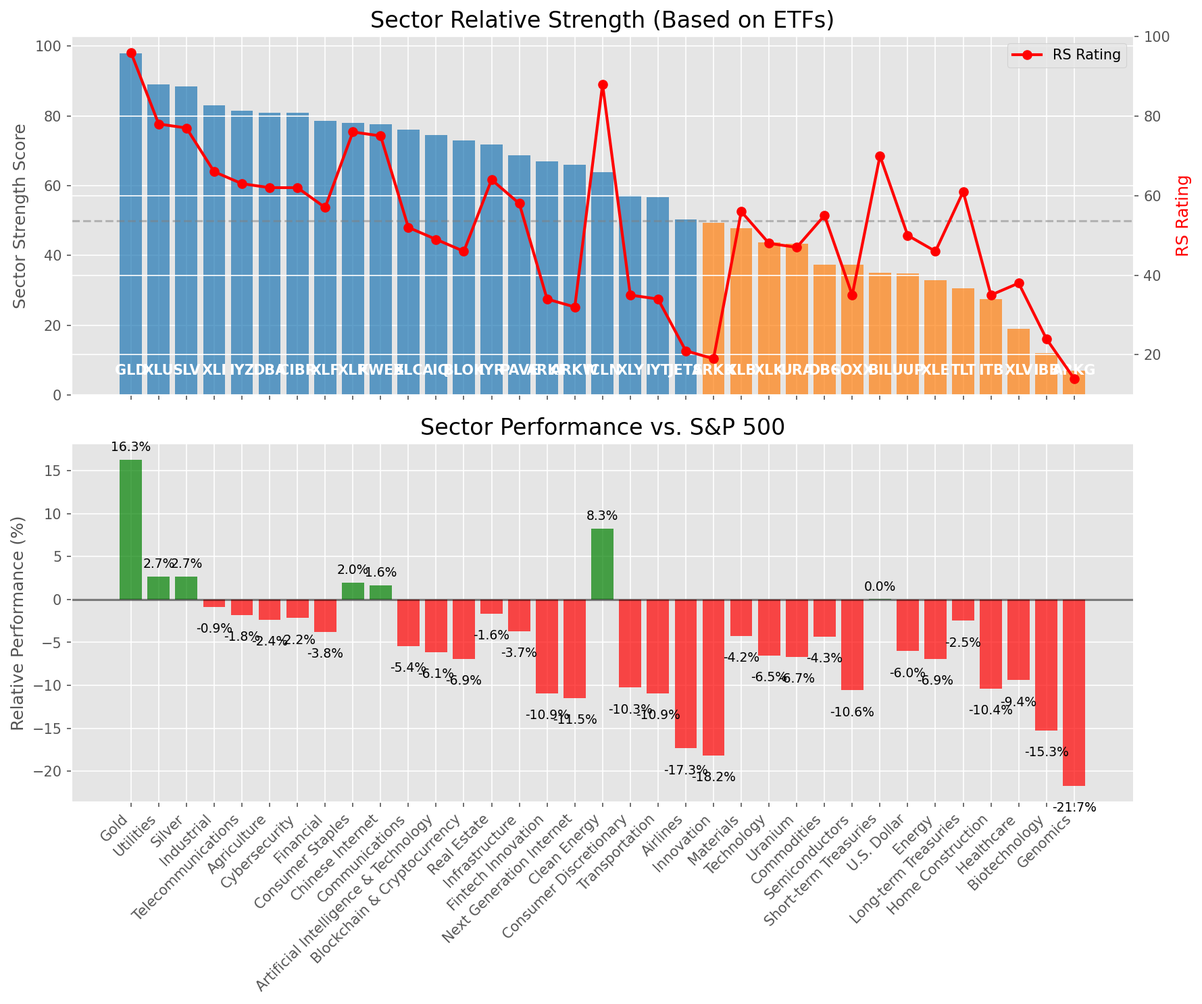
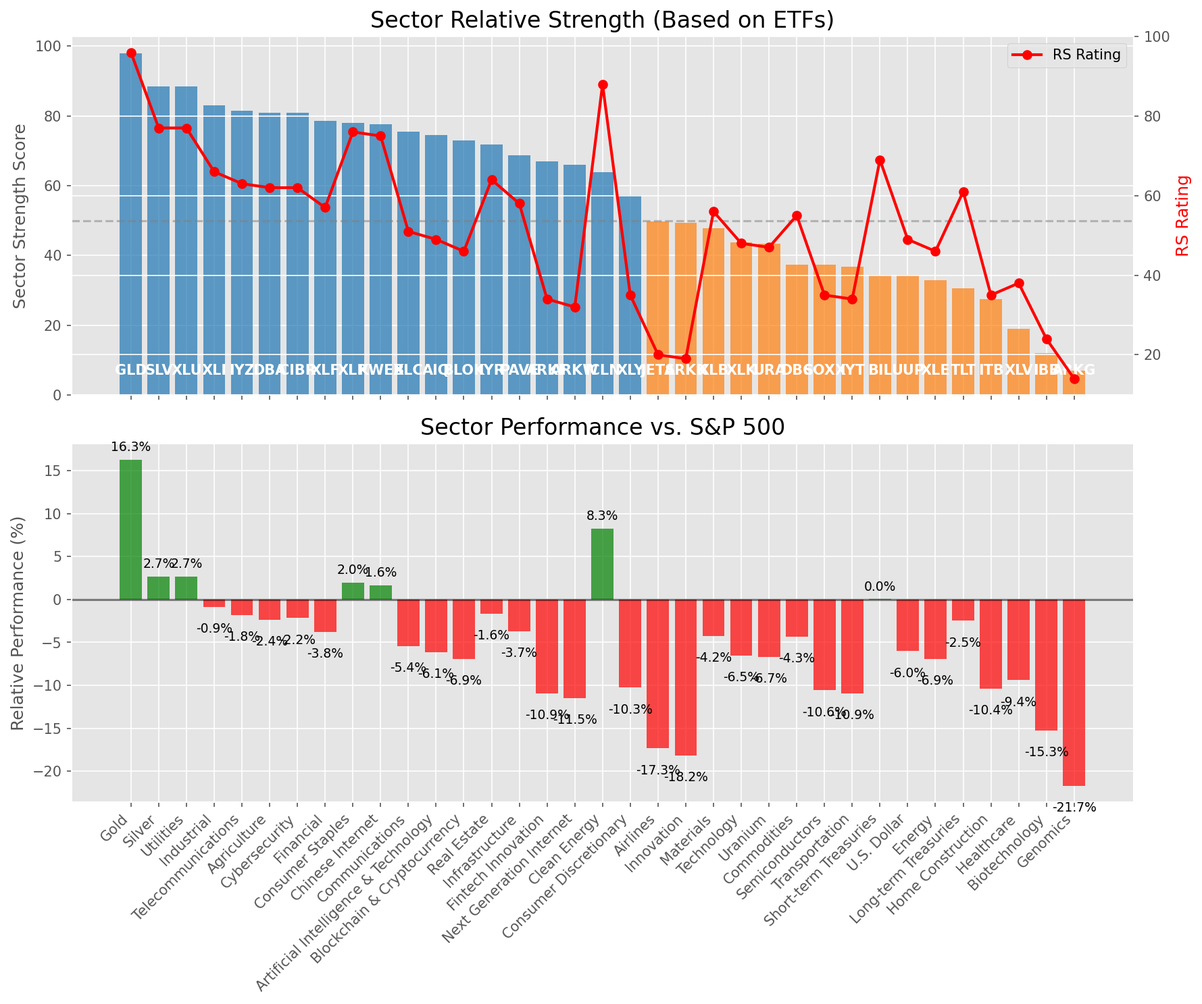
Add market report for 2025-05-10

diff --git a/oneil_relative_strength_report_2025-05-10.md b/oneil_relative_strength_report_2025-05-10.md
@@ -50,8 +50,8 @@ Based on William O'Neil's Relative Strength Methodology
 | ETF | Strength | RS Rating | Performance | Above Key MAs | Trend | Sector |
 |-----|----------|-----------|-------------|--------------|-------|--------|
 | [GLD](https://www.tradingview.com/chart/?symbol=GLD) | 98.0 | 96.0 | 16.27% | 10d ✓, 50d ✓, 200d ✓ | ↗ | Gold |
-| [XLU](https://www.tradingview.com/chart/?symbol=XLU) | 89.0 | 78.0 | 2.69% | 10d ✓, 50d ✓, 200d ✓ | ↗ | Utilities |
 | [SLV](https://www.tradingview.com/chart/?symbol=SLV) | 88.5 | 77.0 | 2.65% | 10d ✓, 50d ✓, 200d ✓ | ↗ | Silver |
+| [XLU](https://www.tradingview.com/chart/?symbol=XLU) | 88.5 | 77.0 | 2.69% | 10d ✓, 50d ✓, 200d ✓ | ↗ | Utilities |
 | [XLI](https://www.tradingview.com/chart/?symbol=XLI) | 83.0 | 66.0 | -0.89% | 10d ✓, 50d ✓, 200d ✓ | ↗ | Industrial |
 | [IYZ](https://www.tradingview.com/chart/?symbol=IYZ) | 81.5 | 63.0 | -1.79% | 10d ✓, 50d ✓, 200d ✓ | ↗ | Telecommunications |
 | [DBA](https://www.tradingview.com/chart/?symbol=DBA) | 81.0 | 62.0 | -2.38% | 10d ✓, 50d ✓, 200d ✓ | ↗ | Agriculture |
@@ -59,7 +59,7 @@ Based on William O'Neil's Relative Strength Methodology
 | [XLF](https://www.tradingview.com/chart/?symbol=XLF) | 78.5 | 57.0 | -3.78% | 10d ✓, 50d ✓, 200d ✓ | ↗ | Financial |
 | [XLP](https://www.tradingview.com/chart/?symbol=XLP) | 78.1 | 76.0 | 1.97% | 10d ✗, 50d ✓, 200d ✓ | ↗ | Consumer Staples |
 | [KWEB](https://www.tradingview.com/chart/?symbol=KWEB) | 77.6 | 75.0 | 1.64% | 10d ✓, 50d ✗, 200d ✓ | ↗ | Chinese Internet |
-| [XLC](https://www.tradingview.com/chart/?symbol=XLC) | 76.0 | 52.0 | -5.41% | 10d ✓, 50d ✓, 200d ✓ | ↗ | Communications |
+| [XLC](https://www.tradingview.com/chart/?symbol=XLC) | 75.5 | 51.0 | -5.41% | 10d ✓, 50d ✓, 200d ✓ | ↗ | Communications |
 | [AIQ](https://www.tradingview.com/chart/?symbol=AIQ) | 74.5 | 49.0 | -6.12% | 10d ✓, 50d ✓, 200d ✓ | ↗ | Artificial Intelligence & Technology |
 | [BLOK](https://www.tradingview.com/chart/?symbol=BLOK) | 73.0 | 46.0 | -6.89% | 10d ✓, 50d ✓, 200d ✓ | ↗ | Blockchain & Cryptocurrency |
 | [IYR](https://www.tradingview.com/chart/?symbol=IYR) | 71.8 | 64.0 | -1.64% | 10d ✓, 50d ✓, 200d ✗ | ↗ | Real Estate |
@@ -68,16 +68,16 @@ Based on William O'Neil's Relative Strength Methodology
 | [ARKW](https://www.tradingview.com/chart/?symbol=ARKW) | 66.0 | 32.0 | -11.46% | 10d ✓, 50d ✓, 200d ✓ | ↗ | Next Generation Internet |
 | [ICLN](https://www.tradingview.com/chart/?symbol=ICLN) | 63.8 | 88.0 | 8.27% | 10d ✓, 50d ✓, 200d ✗ | ↘ | Clean Energy |
 | [XLY](https://www.tradingview.com/chart/?symbol=XLY) | 57.3 | 35.0 | -10.27% | 10d ✓, 50d ✓, 200d ✗ | ↗ | Consumer Discretionary |
-| [IYT](https://www.tradingview.com/chart/?symbol=IYT) | 56.8 | 34.0 | -10.93% | 10d ✓, 50d ✓, 200d ✗ | ↗ | Transportation |
-| [JETS](https://www.tradingview.com/chart/?symbol=JETS) | 50.3 | 21.0 | -17.34% | 10d ✓, 50d ✓, 200d ✗ | ↗ | Airlines |
+| [JETS](https://www.tradingview.com/chart/?symbol=JETS) | 49.8 | 20.0 | -17.34% | 10d ✓, 50d ✓, 200d ✗ | ↗ | Airlines |
 | [ARKK](https://www.tradingview.com/chart/?symbol=ARKK) | 49.3 | 19.0 | -18.18% | 10d ✓, 50d ✓, 200d ✗ | ↗ | Innovation |
 | [XLB](https://www.tradingview.com/chart/?symbol=XLB) | 47.8 | 56.0 | -4.22% | 10d ✓, 50d ✓, 200d ✗ | ↘ | Materials |
 | [XLK](https://www.tradingview.com/chart/?symbol=XLK) | 43.8 | 48.0 | -6.54% | 10d ✓, 50d ✓, 200d ✗ | ↘ | Technology |
 | [URA](https://www.tradingview.com/chart/?symbol=URA) | 43.3 | 47.0 | -6.67% | 10d ✓, 50d ✓, 200d ✗ | ↘ | Uranium |
 | [DBC](https://www.tradingview.com/chart/?symbol=DBC) | 37.4 | 55.0 | -4.35% | 10d ✓, 50d ✗, 200d ✗ | ↘ | Commodities |
 | [SOXX](https://www.tradingview.com/chart/?symbol=SOXX) | 37.3 | 35.0 | -10.57% | 10d ✓, 50d ✓, 200d ✗ | ↘ | Semiconductors |
-| [BIL](https://www.tradingview.com/chart/?symbol=BIL) | 35.0 | 70.0 | 0.03% | 10d ✗, 50d ✗, 200d ✗ | ↘ | Short-term Treasuries |
-| [UUP](https://www.tradingview.com/chart/?symbol=UUP) | 34.9 | 50.0 | -6.01% | 10d ✓, 50d ✗, 200d ✗ | ↘ | U.S. Dollar |
+| [IYT](https://www.tradingview.com/chart/?symbol=IYT) | 36.8 | 34.0 | -10.93% | 10d ✓, 50d ✓, 200d ✗ | ↘ | Transportation |
+| [BIL](https://www.tradingview.com/chart/?symbol=BIL) | 34.5 | 69.0 | 0.03% | 10d ✗, 50d ✗, 200d ✗ | ↘ | Short-term Treasuries |
+| [UUP](https://www.tradingview.com/chart/?symbol=UUP) | 34.4 | 49.0 | -6.01% | 10d ✓, 50d ✗, 200d ✗ | ↘ | U.S. Dollar |
 | [XLE](https://www.tradingview.com/chart/?symbol=XLE) | 32.9 | 46.0 | -6.92% | 10d ✓, 50d ✗, 200d ✗ | ↘ | Energy |
 | [TLT](https://www.tradingview.com/chart/?symbol=TLT) | 30.5 | 61.0 | -2.49% | 10d ✗, 50d ✗, 200d ✗ | ↘ | Long-term Treasuries |
 | [ITB](https://www.tradingview.com/chart/?symbol=ITB) | 27.4 | 35.0 | -10.39% | 10d ✓, 50d ✗, 200d ✗ | ↘ | Home Construction |
@@ -98,7 +98,7 @@ This table shows the relative strength metrics for different market sectors base
 
 ### **Current Sector Leadership**
 
-The current market leadership is coming from the following sectors: **Gold, Utilities, Silver**.
+The current market leadership is coming from the following sectors: **Gold, Silver, Utilities**.
 
 The **Gold** sector (represented by **GLD**) is showing particularly strong relative strength with an RS rating of 96.0 and performance of 16.27% vs. the S&P 500. This sector is trading above its 10-day, 50-day, 200-day moving average(s). Investors should consider focusing on high RS stocks within these leading sectors for potential outperformance.
 
@@ -106,77 +106,76 @@ The **Gold** sector (represented by **GLD**) is showing particularly strong rela
 
 ## **Buy Recommendations**
 
-The following 85 stocks show exceptional relative strength:
+The following 84 stocks show exceptional relative strength:
 
 | RS Rating | Buy Score | Current Price | Chart | Name | Ticker |
 |-----------|-----------|---------------|-------|------|--------|
+| 100 | 100 | $27.38 | [Chart](https://www.tradingview.com/chart/?symbol=DB) | Deutsche Bank Aktiengesellschaft | DB |
+| 100 | 100 | $159.93 | [Chart](https://www.tradingview.com/chart/?symbol=PLMR) | Palomar Holdings, Inc. Common stock | PLMR |
 | 100 | 100 | $87.10 | [Chart](https://www.tradingview.com/chart/?symbol=SEZL) | Sezzle Inc. Common Stock | SEZL |
 | 100 | 100 | $167.22 | [Chart](https://www.tradingview.com/chart/?symbol=DAVE) | Dave Inc. Class A Common Stock | DAVE |
-| 100 | 100 | $159.93 | [Chart](https://www.tradingview.com/chart/?symbol=PLMR) | Palomar Holdings, Inc. Common stock | PLMR |
-| 100 | 100 | $27.38 | [Chart](https://www.tradingview.com/chart/?symbol=DB) | Deutsche Bank Aktiengesellschaft | DB |
-| 99 | 100 | $184.41 | [Chart](https://www.tradingview.com/chart/?symbol=RGLD) | Royal Gold Inc | RGLD |
+| 99 | 100 | $147.42 | [Chart](https://www.tradingview.com/chart/?symbol=ROOT) | Root, Inc. Class A Common Stock | ROOT |
+| 99 | 100 | $142.39 | [Chart](https://www.tradingview.com/chart/?symbol=UGL) | ProShares Ultra Gold | UGL |
+| 99 | 100 | $136.25 | [Chart](https://www.tradingview.com/chart/?symbol=ATGE) | Adtalem Global Education Inc. Common Shares | ATGE |
 | 99 | 100 | $19.27 | [Chart](https://www.tradingview.com/chart/?symbol=SPNT) | SiriusPoint Ltd. | SPNT |
 | 99 | 100 | $85.77 | [Chart](https://www.tradingview.com/chart/?symbol=WPM) | Wheaton Precious Metals Corp. Common Stock | WPM |
-| 99 | 100 | $136.25 | [Chart](https://www.tradingview.com/chart/?symbol=ATGE) | Adtalem Global Education Inc. Common Shares | ATGE |
-| 99 | 100 | $147.42 | [Chart](https://www.tradingview.com/chart/?symbol=ROOT) | Root, Inc. Class A Common Stock | ROOT |
-| 99 | 100 | $512.75 | [Chart](https://www.tradingview.com/chart/?symbol=DUOL) | Duolingo, Inc. Class A Common Stock | DUOL |
-| 99 | 100 | $142.39 | [Chart](https://www.tradingview.com/chart/?symbol=UGL) | ProShares Ultra Gold | UGL |
+| 99 | 100 | $184.41 | [Chart](https://www.tradingview.com/chart/?symbol=RGLD) | Royal Gold Inc | RGLD |
+| 99 | 100 | $47.38 | [Chart](https://www.tradingview.com/chart/?symbol=MRX) | Marex Group plc Ordinary Shares | MRX |
 | 99 | 100 | $416.03 | [Chart](https://www.tradingview.com/chart/?symbol=MSTR) | MicroStrategy Inc | MSTR |
 | 99 | 100 | $70.17 | [Chart](https://www.tradingview.com/chart/?symbol=ULS) | UL Solutions Inc. | ULS |
-| 99 | 100 | $47.38 | [Chart](https://www.tradingview.com/chart/?symbol=MRX) | Marex Group plc Ordinary Shares | MRX |
+| 99 | 100 | $512.75 | [Chart](https://www.tradingview.com/chart/?symbol=DUOL) | Duolingo, Inc. Class A Common Stock | DUOL |
 | 99 | 100 | $24.00 | [Chart](https://www.tradingview.com/chart/?symbol=GRND) | Grindr Inc. | GRND |
-| 98 | 100 | $41.04 | [Chart](https://www.tradingview.com/chart/?symbol=EWP) | iShares MSCI Spain ETF | EWP |
-| 98 | 100 | $59.87 | [Chart](https://www.tradingview.com/chart/?symbol=SKWD) | Skyward Specialty Insurance Group, Inc. Common Stock | SKWD |
 | 98 | 100 | $129.14 | [Chart](https://www.tradingview.com/chart/?symbol=VSEC) | VSE Corp | VSEC |
+| 98 | 100 | $59.87 | [Chart](https://www.tradingview.com/chart/?symbol=SKWD) | Skyward Specialty Insurance Group, Inc. Common Stock | SKWD |
+| 98 | 100 | $157.41 | [Chart](https://www.tradingview.com/chart/?symbol=HWM) | Howmet Aerospace Inc. | HWM |
 | 98 | 100 | $24.36 | [Chart](https://www.tradingview.com/chart/?symbol=OR) | Osisko Gold Royalties Ltd | OR |
 | 98 | 100 | $64.33 | [Chart](https://www.tradingview.com/chart/?symbol=GDXJ) | VanEck Junior Gold Miners ETF | GDXJ |
-| 98 | 100 | $157.41 | [Chart](https://www.tradingview.com/chart/?symbol=HWM) | Howmet Aerospace Inc. | HWM |
-| 98 | 100 | $27.05 | [Chart](https://www.tradingview.com/chart/?symbol=AGI) | Alamos Gold Inc. Class A Common Shares | AGI |
 | 98 | 100 | $252.70 | [Chart](https://www.tradingview.com/chart/?symbol=PAYC) | PAYCOM SOFTWARE, INC. | PAYC |
-| 97 | 100 | $169.23 | [Chart](https://www.tradingview.com/chart/?symbol=FNV) | Franco-Nevada Corporation | FNV |
+| 98 | 100 | $27.05 | [Chart](https://www.tradingview.com/chart/?symbol=AGI) | Alamos Gold Inc. Class A Common Shares | AGI |
 | 97 | 100 | $117.32 | [Chart](https://www.tradingview.com/chart/?symbol=AEM) | Agnico Eagle Mines Ltd. | AEM |
-| 97 | 100 | $41.77 | [Chart](https://www.tradingview.com/chart/?symbol=DRS) | Leonardo DRS, Inc. Common Stock | DRS |
+| 97 | 100 | $169.23 | [Chart](https://www.tradingview.com/chart/?symbol=FNV) | Franco-Nevada Corporation | FNV |
+| 97 | 100 | $30.77 | [Chart](https://www.tradingview.com/chart/?symbol=EUFN) | iShares MSCI Europe Financials ETF | EUFN |
 | 97 | 100 | $147.46 | [Chart](https://www.tradingview.com/chart/?symbol=TW) | Tradeweb Markets Inc. Class A Common Stock | TW |
 | 97 | 100 | $72.49 | [Chart](https://www.tradingview.com/chart/?symbol=WRB) | W.R. Berkley Corporation | WRB |
 | 97 | 100 | $40.77 | [Chart](https://www.tradingview.com/chart/?symbol=EWG) | iShares MSCI Germany ETF | EWG |
+| 97 | 100 | $41.77 | [Chart](https://www.tradingview.com/chart/?symbol=DRS) | Leonardo DRS, Inc. Common Stock | DRS |
 | 97 | 100 | $34.93 | [Chart](https://www.tradingview.com/chart/?symbol=AHR) | American Healthcare REIT, Inc. | AHR |
-| 97 | 100 | $30.77 | [Chart](https://www.tradingview.com/chart/?symbol=EUFN) | iShares MSCI Europe Financials ETF | EUFN |
-| 96 | 100 | $116.41 | [Chart](https://www.tradingview.com/chart/?symbol=EHC) | Encompass Health Corporation Common Stock | EHC |
-| 96 | 100 | $28.39 | [Chart](https://www.tradingview.com/chart/?symbol=FMS) | Fresenius Medical Care AG | FMS |
-| 96 | 100 | $306.84 | [Chart](https://www.tradingview.com/chart/?symbol=GLD) | SPDR Gold Trust, SPDR Gold Shares | GLD |
-| 96 | 100 | $33.20 | [Chart](https://www.tradingview.com/chart/?symbol=IAUM) | iShares Gold Trust Micro | IAUM |
 | 96 | 100 | $22.88 | [Chart](https://www.tradingview.com/chart/?symbol=LAUR) | Laureate Education, Inc. Common Stock | LAUR |
-| 96 | 100 | $148.22 | [Chart](https://www.tradingview.com/chart/?symbol=CAH) | Cardinal Health, Inc. | CAH |
+| 96 | 100 | $116.41 | [Chart](https://www.tradingview.com/chart/?symbol=EHC) | Encompass Health Corporation Common Stock | EHC |
+| 96 | 100 | $33.20 | [Chart](https://www.tradingview.com/chart/?symbol=IAUM) | iShares Gold Trust Micro | IAUM |
+| 96 | 100 | $306.84 | [Chart](https://www.tradingview.com/chart/?symbol=GLD) | SPDR Gold Trust, SPDR Gold Shares | GLD |
 | 96 | 100 | $62.77 | [Chart](https://www.tradingview.com/chart/?symbol=IAU) | iShares Gold Trust | IAU |
-| 95 | 100 | $284.35 | [Chart](https://www.tradingview.com/chart/?symbol=CME) | CME Group Inc. | CME |
-| 95 | 100 | $36.85 | [Chart](https://www.tradingview.com/chart/?symbol=PAY) | Paymentus Holdings, Inc. | PAY |
+| 96 | 100 | $28.39 | [Chart](https://www.tradingview.com/chart/?symbol=FMS) | Fresenius Medical Care AG | FMS |
+| 96 | 100 | $148.22 | [Chart](https://www.tradingview.com/chart/?symbol=CAH) | Cardinal Health, Inc. | CAH |
 | 95 | 100 | $25.41 | [Chart](https://www.tradingview.com/chart/?symbol=PHYS) | Sprott Physical Gold Trust | PHYS |
+| 95 | 100 | $36.85 | [Chart](https://www.tradingview.com/chart/?symbol=PAY) | Paymentus Holdings, Inc. | PAY |
+| 95 | 100 | $284.35 | [Chart](https://www.tradingview.com/chart/?symbol=CME) | CME Group Inc. | CME |
 | 95 | 100 | $34.33 | [Chart](https://www.tradingview.com/chart/?symbol=UTI) | Universal Technical Institute, Inc. | UTI |
-| 94 | 100 | $297.32 | [Chart](https://www.tradingview.com/chart/?symbol=PEN) | Penumbra, Inc. | PEN |
 | 94 | 100 | $212.33 | [Chart](https://www.tradingview.com/chart/?symbol=CRS) | Carpenter Technology Corp | CRS |
-| 94 | 100 | $82.02 | [Chart](https://www.tradingview.com/chart/?symbol=NFG) | National Fuel Gas Co. | NFG |
-| 94 | 100 | $27.84 | [Chart](https://www.tradingview.com/chart/?symbol=T) | AT&T Inc. | T |
+| 94 | 100 | $139.17 | [Chart](https://www.tradingview.com/chart/?symbol=SE) | Sea Limited American Depositary Shares, each representing one Class A Ordinary Share | SE |
+| 94 | 100 | $297.32 | [Chart](https://www.tradingview.com/chart/?symbol=PEN) | Penumbra, Inc. | PEN |
 | 94 | 100 | $105.94 | [Chart](https://www.tradingview.com/chart/?symbol=RBA) | RB Global, Inc. | RBA |
 | 94 | 100 | $61.81 | [Chart](https://www.tradingview.com/chart/?symbol=CHEF) | The Chef's Warehouse Inc | CHEF |
-| 94 | 100 | $139.17 | [Chart](https://www.tradingview.com/chart/?symbol=SE) | Sea Limited American Depositary Shares, each representing one Class A Ordinary Share | SE |
+| 94 | 100 | $27.84 | [Chart](https://www.tradingview.com/chart/?symbol=T) | AT&T Inc. | T |
+| 94 | 100 | $82.02 | [Chart](https://www.tradingview.com/chart/?symbol=NFG) | National Fuel Gas Co. | NFG |
 | 93 | 100 | $1140.22 | [Chart](https://www.tradingview.com/chart/?symbol=NFLX) | NetFlix Inc | NFLX |
-| 93 | 100 | $18.07 | [Chart](https://www.tradingview.com/chart/?symbol=AM) | Antero Midstream Corporation Common Stock | AM |
 | 93 | 100 | $48.21 | [Chart](https://www.tradingview.com/chart/?symbol=ERJ) | Embraer S.A. | ERJ |
-| 92 | 100 | $29.22 | [Chart](https://www.tradingview.com/chart/?symbol=CEF) | Sprott Physical Gold and Silver Trust | CEF |
+| 93 | 100 | $18.07 | [Chart](https://www.tradingview.com/chart/?symbol=AM) | Antero Midstream Corporation Common Stock | AM |
+| 92 | 100 | $52.91 | [Chart](https://www.tradingview.com/chart/?symbol=EPR) | EPR Properties | EPR |
 | 92 | 100 | $43.15 | [Chart](https://www.tradingview.com/chart/?symbol=VIRT) | Virtu Financial, Inc. Class A | VIRT |
 | 92 | 100 | $40.76 | [Chart](https://www.tradingview.com/chart/?symbol=AB) | AllianceBernstein Holding, L.P. | AB |
-| 92 | 100 | $52.91 | [Chart](https://www.tradingview.com/chart/?symbol=EPR) | EPR Properties | EPR |
+| 92 | 100 | $29.22 | [Chart](https://www.tradingview.com/chart/?symbol=CEF) | Sprott Physical Gold and Silver Trust | CEF |
 | 91 | 100 | $156.51 | [Chart](https://www.tradingview.com/chart/?symbol=LRN) | Stride, Inc. | LRN |
 | 91 | 100 | $42.79 | [Chart](https://www.tradingview.com/chart/?symbol=FHI) | Federated Hermes, Inc. | FHI |
 | 90 | 100 | $310.67 | [Chart](https://www.tradingview.com/chart/?symbol=PODD) | Insulet Corporation | PODD |
+| 90 | 100 | $231.71 | [Chart](https://www.tradingview.com/chart/?symbol=CBOE) | Cboe Global Markets, Inc. | CBOE |
 | 90 | 100 | $118.50 | [Chart](https://www.tradingview.com/chart/?symbol=CWST) | Casella Waste Systems Inc | CWST |
 | 90 | 100 | $16.53 | [Chart](https://www.tradingview.com/chart/?symbol=BCS) | Barclays PLC | BCS |
-| 90 | 100 | $231.71 | [Chart](https://www.tradingview.com/chart/?symbol=CBOE) | Cboe Global Markets, Inc. | CBOE |
-| 89 | 100 | $24.94 | [Chart](https://www.tradingview.com/chart/?symbol=EWS) | iShares MSCI Singapore ETF | EWS |
 | 89 | 100 | $55.62 | [Chart](https://www.tradingview.com/chart/?symbol=EQT) | EQT CORP | EQT |
+| 89 | 100 | $24.94 | [Chart](https://www.tradingview.com/chart/?symbol=EWS) | iShares MSCI Singapore ETF | EWS |
 | 89 | 100 | $67.79 | [Chart](https://www.tradingview.com/chart/?symbol=CTVA) | Corteva, Inc. Common Stock | CTVA |
-| 88 | 100 | $196.10 | [Chart](https://www.tradingview.com/chart/?symbol=LOPE) | Grand Canyon Education, Inc | LOPE |
 | 88 | 100 | $101.22 | [Chart](https://www.tradingview.com/chart/?symbol=AXS) | Axis Capital Holders Limited | AXS |
+| 88 | 100 | $196.10 | [Chart](https://www.tradingview.com/chart/?symbol=LOPE) | Grand Canyon Education, Inc | LOPE |
 | 88 | 100 | $71.88 | [Chart](https://www.tradingview.com/chart/?symbol=RBLX) | Roblox Corporation | RBLX |
 | 87 | 99 | $32.18 | [Chart](https://www.tradingview.com/chart/?symbol=SLM) | SLM Corporation | SLM |
 | 86 | 98 | $56.76 | [Chart](https://www.tradingview.com/chart/?symbol=HSBC) | HSBC Holdings PLC | HSBC |
@@ -191,8 +190,8 @@ The following 85 stocks show exceptional relative strength:
 | 82 | 94 | $338.18 | [Chart](https://www.tradingview.com/chart/?symbol=AJG) | Arthur J. Gallagher & Co. | AJG |
 | 81 | 94 | $80.47 | [Chart](https://www.tradingview.com/chart/?symbol=UNM) | Unum Group | UNM |
 | 82 | 93 | $214.96 | [Chart](https://www.tradingview.com/chart/?symbol=GE) | GE Aerospace | GE |
-| 80 | 93 | $648.25 | [Chart](https://www.tradingview.com/chart/?symbol=SPOT) | Spotify Technology S.A. | SPOT |
 | 80 | 93 | $211.96 | [Chart](https://www.tradingview.com/chart/?symbol=IDCC) | InterDigital, Inc. | IDCC |
+| 80 | 93 | $648.25 | [Chart](https://www.tradingview.com/chart/?symbol=SPOT) | Spotify Technology S.A. | SPOT |
 | 81 | 92 | $163.33 | [Chart](https://www.tradingview.com/chart/?symbol=ITA) | iShares U.S. Aerospace & Defense ETF | ITA |
 | 80 | 91 | $28.46 | [Chart](https://www.tradingview.com/chart/?symbol=ATAT) | Atour Lifestyle Holdings Limited American Depositary Shares | ATAT |
 
@@ -201,26 +200,26 @@ The following 85 stocks show exceptional relative strength:
 
 ## **Sell Recommendations**
 
-The following 87 stocks show deteriorating relative strength:
+The following 88 stocks show deteriorating relative strength:
 
 | RS Rating | Sell Score | Current Price | Chart | Name | Ticker |
 |-----------|------------|---------------|-------|------|--------|
-| 1 | 100 | $20.24 | [Chart](https://www.tradingview.com/chart/?symbol=BHVN) | Biohaven Ltd. | BHVN |
 | 1 | 100 | $16.32 | [Chart](https://www.tradingview.com/chart/?symbol=FWRD) | Forward Air Corp | FWRD |
 | 1 | 100 | $260.62 | [Chart](https://www.tradingview.com/chart/?symbol=SAIA) | Saia, Inc. | SAIA |
 | 1 | 100 | $21.13 | [Chart](https://www.tradingview.com/chart/?symbol=GCO) | Genesco Inc. | GCO |
+| 1 | 100 | $20.24 | [Chart](https://www.tradingview.com/chart/?symbol=BHVN) | Biohaven Ltd. | BHVN |
 | 2 | 100 | $10.94 | [Chart](https://www.tradingview.com/chart/?symbol=NRIX) | Nurix Therapeutics, Inc. Common stock | NRIX |
 | 3 | 100 | $13.10 | [Chart](https://www.tradingview.com/chart/?symbol=DQ) | Daqo New Energy Corp. American Depositary Shares (each representing 5 Ordinary Shares) | DQ |
+| 4 | 100 | $10.04 | [Chart](https://www.tradingview.com/chart/?symbol=LSPD) | Lightspeed Commerce Inc. | LSPD |
 | 4 | 100 | $73.16 | [Chart](https://www.tradingview.com/chart/?symbol=ANF) | Abercrombie & Fitch Co. | ANF |
 | 4 | 100 | $12.22 | [Chart](https://www.tradingview.com/chart/?symbol=MNRO) | Monro, Inc. Common Stock | MNRO |
-| 4 | 100 | $10.04 | [Chart](https://www.tradingview.com/chart/?symbol=LSPD) | Lightspeed Commerce Inc. | LSPD |
 | 5 | 100 | $26.92 | [Chart](https://www.tradingview.com/chart/?symbol=JACK) | Jack in the Box Inc. | JACK |
-| 5 | 100 | $10.98 | [Chart](https://www.tradingview.com/chart/?symbol=ARCT) | Arcturus Therapeutics Holdings Inc. Common Stock | ARCT |
 | 5 | 100 | $30.88 | [Chart](https://www.tradingview.com/chart/?symbol=AAP) | ADVANCE AUTO PARTS INC | AAP |
-| 7 | 100 | $11.14 | [Chart](https://www.tradingview.com/chart/?symbol=AEO) | American Eagle Outfitters | AEO |
+| 5 | 100 | $10.98 | [Chart](https://www.tradingview.com/chart/?symbol=ARCT) | Arcturus Therapeutics Holdings Inc. Common Stock | ARCT |
 | 7 | 100 | $28.01 | [Chart](https://www.tradingview.com/chart/?symbol=SRDX) | Surmodics, Inc. Common Stock | SRDX |
-| 10 | 100 | $96.40 | [Chart](https://www.tradingview.com/chart/?symbol=TGT) | Target Corporation | TGT |
+| 7 | 100 | $11.14 | [Chart](https://www.tradingview.com/chart/?symbol=AEO) | American Eagle Outfitters | AEO |
 | 10 | 100 | $31.70 | [Chart](https://www.tradingview.com/chart/?symbol=CYTK) | Cytokinetics Inc. | CYTK |
+| 10 | 100 | $96.40 | [Chart](https://www.tradingview.com/chart/?symbol=TGT) | Target Corporation | TGT |
 | 13 | 100 | $16.32 | [Chart](https://www.tradingview.com/chart/?symbol=SVOL) | Simplify Volatility Premium ETF | SVOL |
 | 17 | 100 | $10.50 | [Chart](https://www.tradingview.com/chart/?symbol=BWLP) | BW LPG Limited | BWLP |
 | 9 | 99 | $125.11 | [Chart](https://www.tradingview.com/chart/?symbol=TFX) | Teleflex Incorporated | TFX |
@@ -229,6 +228,7 @@ The following 87 stocks show deteriorating relative strength:
 | 5 | 98 | $15.47 | [Chart](https://www.tradingview.com/chart/?symbol=PSFE) | Paysafe Limited | PSFE |
 | 8 | 98 | $11.15 | [Chart](https://www.tradingview.com/chart/?symbol=JAMF) | Jamf Holding Corp. Common Stock | JAMF |
 | 4 | 97 | $27.70 | [Chart](https://www.tradingview.com/chart/?symbol=TNA) | Direxion Daily Small Cap Bull 3x Shares | TNA |
+| 14 | 97 | $41.90 | [Chart](https://www.tradingview.com/chart/?symbol=SW) | Smurfit Westrock plc | SW |
 | 24 | 97 | $12.75 | [Chart](https://www.tradingview.com/chart/?symbol=MED) | Medifast, Inc. | MED |
 | 9 | 96 | $15.64 | [Chart](https://www.tradingview.com/chart/?symbol=PENN) | PENN Entertainment, Inc. Common Stock | PENN |
 | 14 | 96 | $58.62 | [Chart](https://www.tradingview.com/chart/?symbol=AMWD) | American Woodmark Corp | AMWD |
@@ -244,8 +244,8 @@ The following 87 stocks show deteriorating relative strength:
 | 22 | 92 | $12.41 | [Chart](https://www.tradingview.com/chart/?symbol=DBO) | Invesco DB Oil Fund | DBO |
 | 23 | 92 | $12.46 | [Chart](https://www.tradingview.com/chart/?symbol=AEYE) | AudioEye, Inc. Common Stock | AEYE |
 | 13 | 91 | $11.34 | [Chart](https://www.tradingview.com/chart/?symbol=HPK) | HighPeak Energy, Inc. Common Stock | HPK |
-| 13 | 91 | $76.57 | [Chart](https://www.tradingview.com/chart/?symbol=THO) | Thor Industries, Inc. | THO |
 | 13 | 91 | $19.06 | [Chart](https://www.tradingview.com/chart/?symbol=OII) | Oceaneering International Inc. | OII |
+| 13 | 91 | $76.57 | [Chart](https://www.tradingview.com/chart/?symbol=THO) | Thor Industries, Inc. | THO |
 | 15 | 91 | $80.03 | [Chart](https://www.tradingview.com/chart/?symbol=WHR) | Whirlpool Corp. | WHR |
 | 15 | 91 | $14.27 | [Chart](https://www.tradingview.com/chart/?symbol=ZIM) | ZIM Integrated Shipping Services Ltd. | ZIM |
 | 18 | 91 | $68.85 | [Chart](https://www.tradingview.com/chart/?symbol=BBY) | Best Buy Company, Inc. | BBY |
@@ -256,18 +256,18 @@ The following 87 stocks show deteriorating relative strength:
 | 21 | 89 | $48.75 | [Chart](https://www.tradingview.com/chart/?symbol=ERX) | Direxion Daily Energy Bull 2X Shares | ERX |
 | 30 | 89 | $14.63 | [Chart](https://www.tradingview.com/chart/?symbol=FXN) | First Trust Energy AlphaDEX Fund | FXN |
 | 17 | 86 | $17.49 | [Chart](https://www.tradingview.com/chart/?symbol=INFY) | Infosys Limited American Depositary Shares | INFY |
+| 27 | 86 | $19.45 | [Chart](https://www.tradingview.com/chart/?symbol=PLAB) | Photronics Inc | PLAB |
 | 27 | 86 | $145.18 | [Chart](https://www.tradingview.com/chart/?symbol=QCOM) | Qualcomm Inc | QCOM |
 | 21 | 85 | $30.68 | [Chart](https://www.tradingview.com/chart/?symbol=CRNX) | Crinetics Pharmaceuticals, Inc. | CRNX |
-| 27 | 85 | $19.45 | [Chart](https://www.tradingview.com/chart/?symbol=PLAB) | Photronics Inc | PLAB |
 | 29 | 85 | $20.01 | [Chart](https://www.tradingview.com/chart/?symbol=CSWC) | Capital Southwest Corp | CSWC |
 | 22 | 84 | $10.38 | [Chart](https://www.tradingview.com/chart/?symbol=AVO) | Mission Produce, Inc. Common Stock | AVO |
 | 22 | 83 | $15.91 | [Chart](https://www.tradingview.com/chart/?symbol=PD) | PagerDuty, Inc. | PD |
 | 25 | 83 | $10.01 | [Chart](https://www.tradingview.com/chart/?symbol=XPRO) | Expro Group Holdings N.V. | XPRO |
+| 28 | 83 | $18.84 | [Chart](https://www.tradingview.com/chart/?symbol=JKS) | JINKOSOLAR HOLDINGS CO | JKS |
 | 31 | 83 | $66.77 | [Chart](https://www.tradingview.com/chart/?symbol=DD) | DuPont de Nemours, Inc. Common Stock | DD |
 | 39 | 83 | $28.40 | [Chart](https://www.tradingview.com/chart/?symbol=IMCR) | Immunocore Holdings plc American Depositary Shares | IMCR |
 | 25 | 82 | $53.96 | [Chart](https://www.tradingview.com/chart/?symbol=KBH) | KB Home | KBH |
 | 27 | 82 | $50.83 | [Chart](https://www.tradingview.com/chart/?symbol=LW) | Lamb Weston Holdings, Inc. | LW |
-| 28 | 82 | $18.84 | [Chart](https://www.tradingview.com/chart/?symbol=JKS) | JINKOSOLAR HOLDINGS CO | JKS |
 | 31 | 82 | $31.99 | [Chart](https://www.tradingview.com/chart/?symbol=SMCI) | Super Micro Computer, Inc. Common Stock | SMCI |
 | 25 | 81 | $37.00 | [Chart](https://www.tradingview.com/chart/?symbol=NBHC) | NATIONAL BANK HOLDINGS CORP. | NBHC |
 | 25 | 81 | $121.09 | [Chart](https://www.tradingview.com/chart/?symbol=GNRC) | GENERAC HOLDINGS INC | GNRC |
@@ -278,10 +278,10 @@ The following 87 stocks show deteriorating relative strength:
 | 31 | 79 | $20.51 | [Chart](https://www.tradingview.com/chart/?symbol=BITI) | ProShares Short Bitcoin ETF | BITI |
 | 23 | 78 | $15.13 | [Chart](https://www.tradingview.com/chart/?symbol=BCSF) | Bain Capital Specialty Finance, Inc. | BCSF |
 | 25 | 77 | $19.25 | [Chart](https://www.tradingview.com/chart/?symbol=AAT) | AMERICAN ASSETS TRUST, INC. | AAT |
+| 33 | 75 | $19.18 | [Chart](https://www.tradingview.com/chart/?symbol=HVT) | Haverty Furniture Companies, Inc. | HVT |
 | 28 | 74 | $74.54 | [Chart](https://www.tradingview.com/chart/?symbol=WFG) | West Fraser Timber Co. Ltd | WFG |
 | 31 | 74 | $28.74 | [Chart](https://www.tradingview.com/chart/?symbol=CSX) | CSX Corporation | CSX |
 | 33 | 74 | $27.04 | [Chart](https://www.tradingview.com/chart/?symbol=BNO) | United States Brent Oil Fund, LP | BNO |
-| 34 | 74 | $19.18 | [Chart](https://www.tradingview.com/chart/?symbol=HVT) | Haverty Furniture Companies, Inc. | HVT |
 | 35 | 74 | $92.05 | [Chart](https://www.tradingview.com/chart/?symbol=ITB) | iShares U.S. Home Construction ETF | ITB |
 | 37 | 73 | $34.86 | [Chart](https://www.tradingview.com/chart/?symbol=SQM) | Sociedad Quimica y Minera de Chile SA | SQM |
 | 39 | 73 | $249.53 | [Chart](https://www.tradingview.com/chart/?symbol=HUM) | Humana Inc. | HUM |
